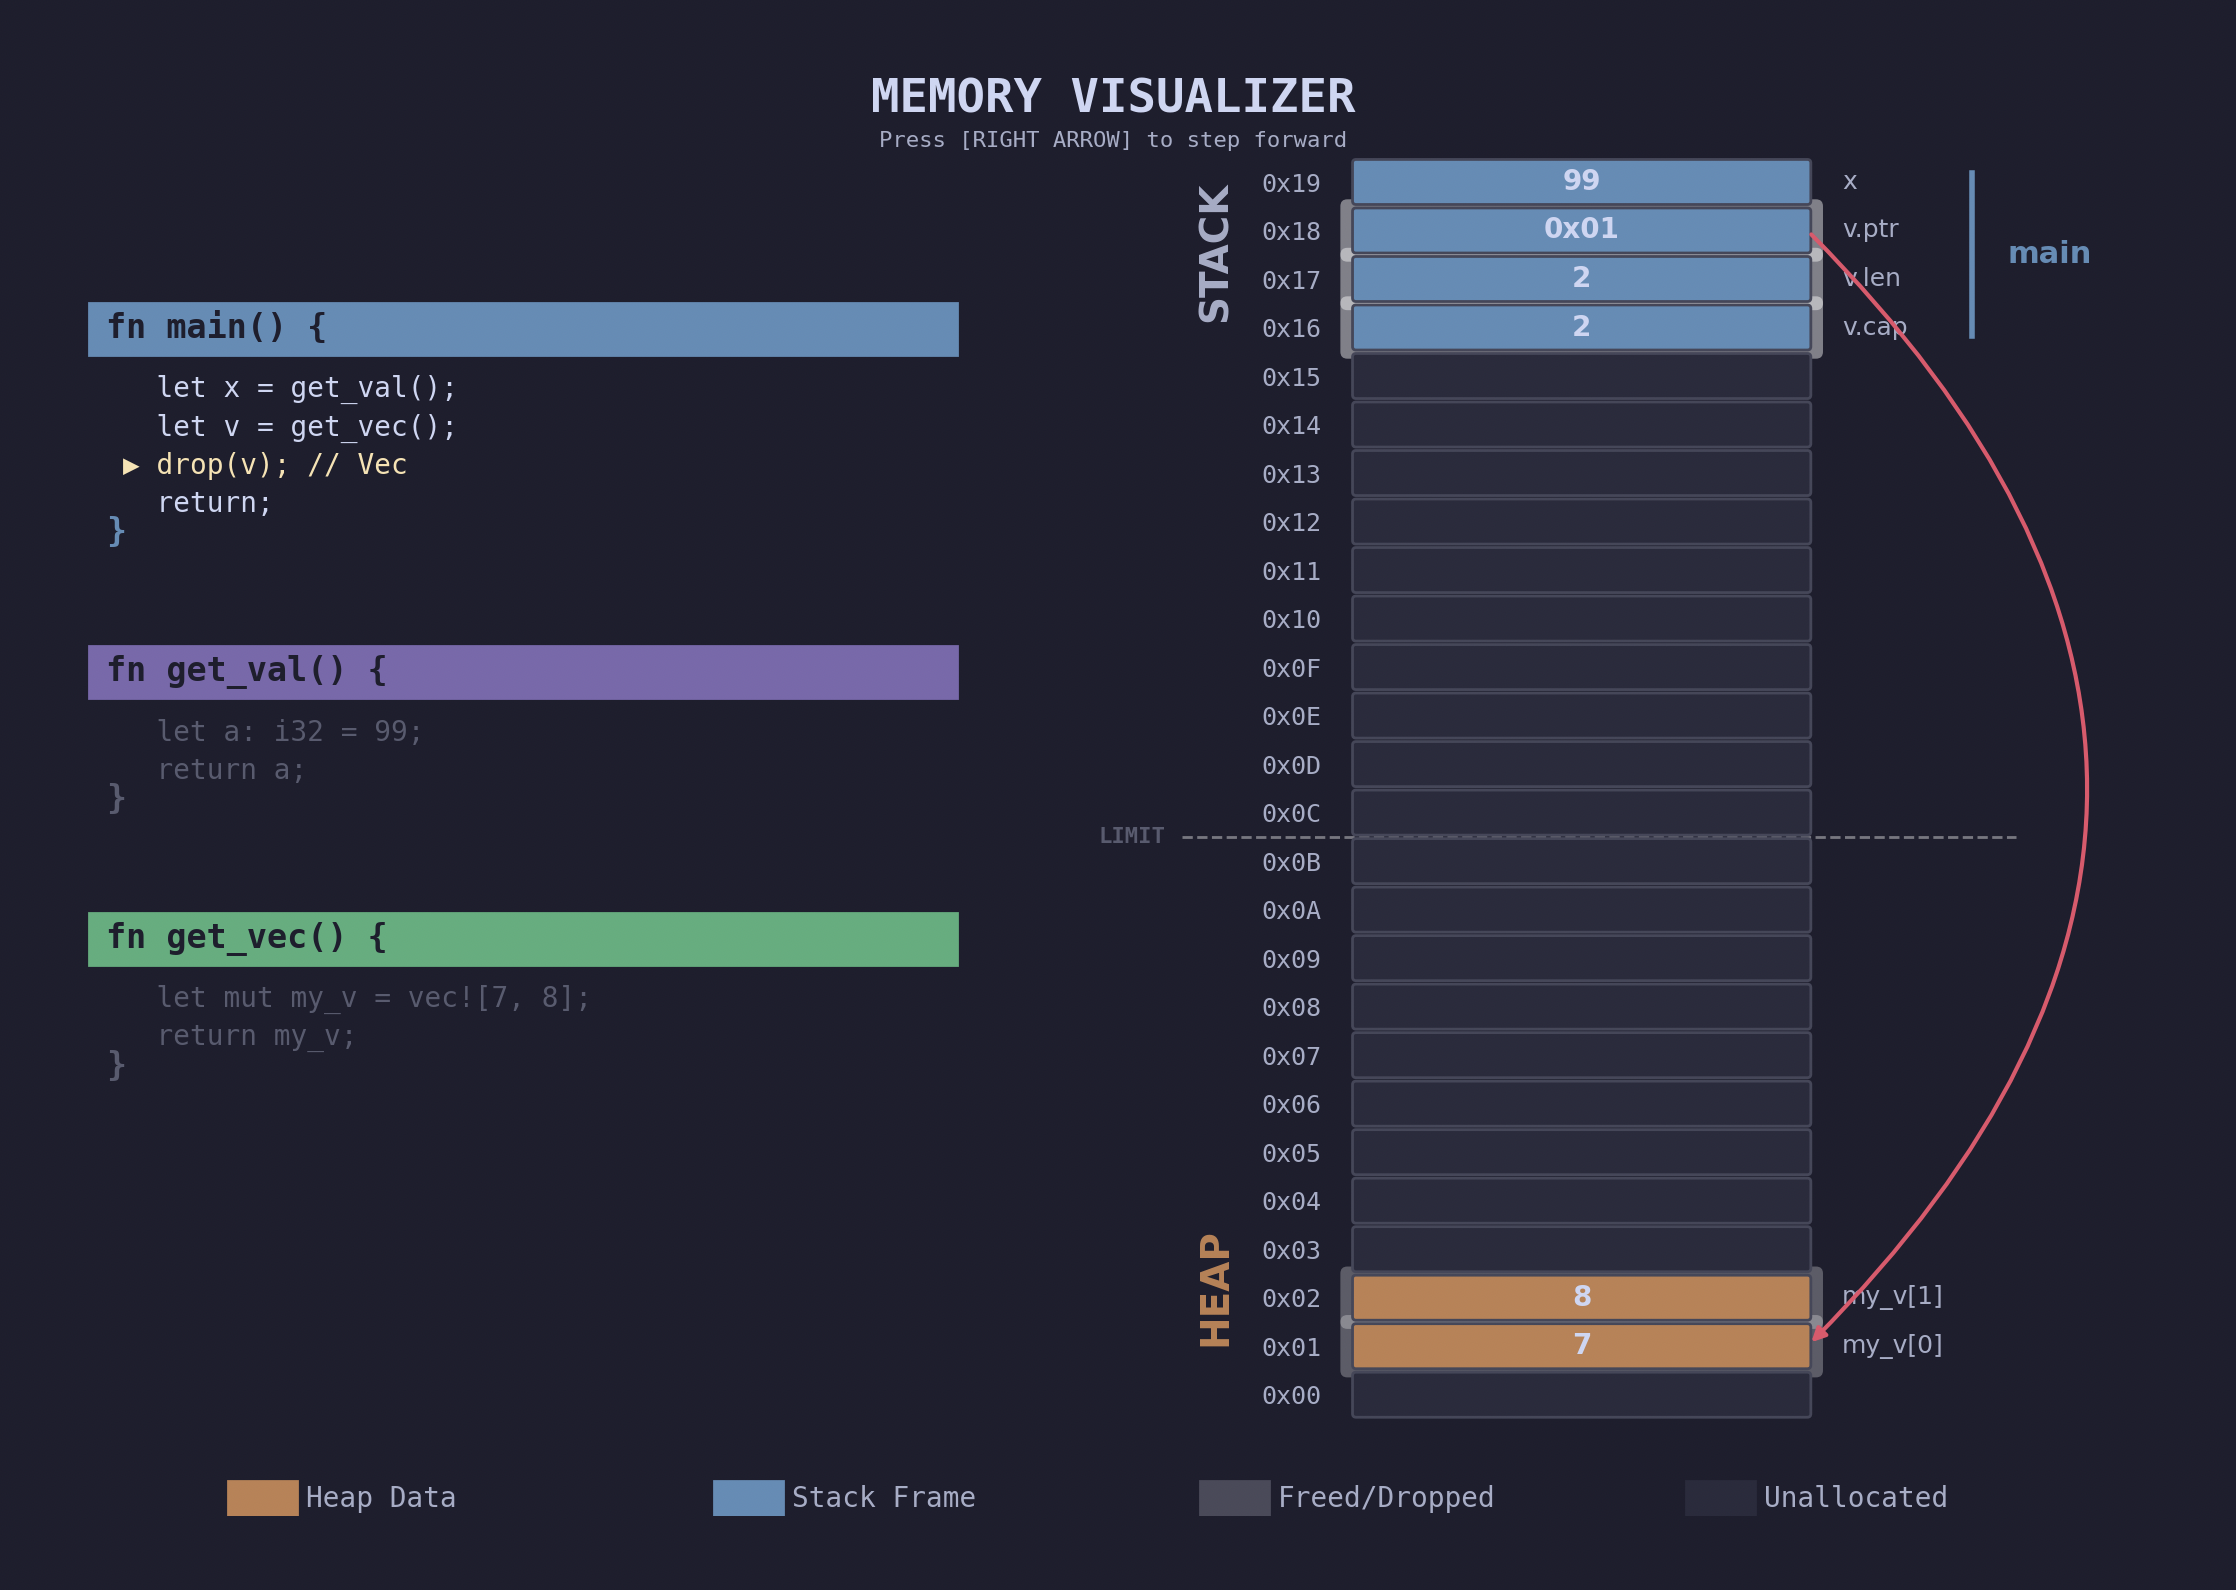
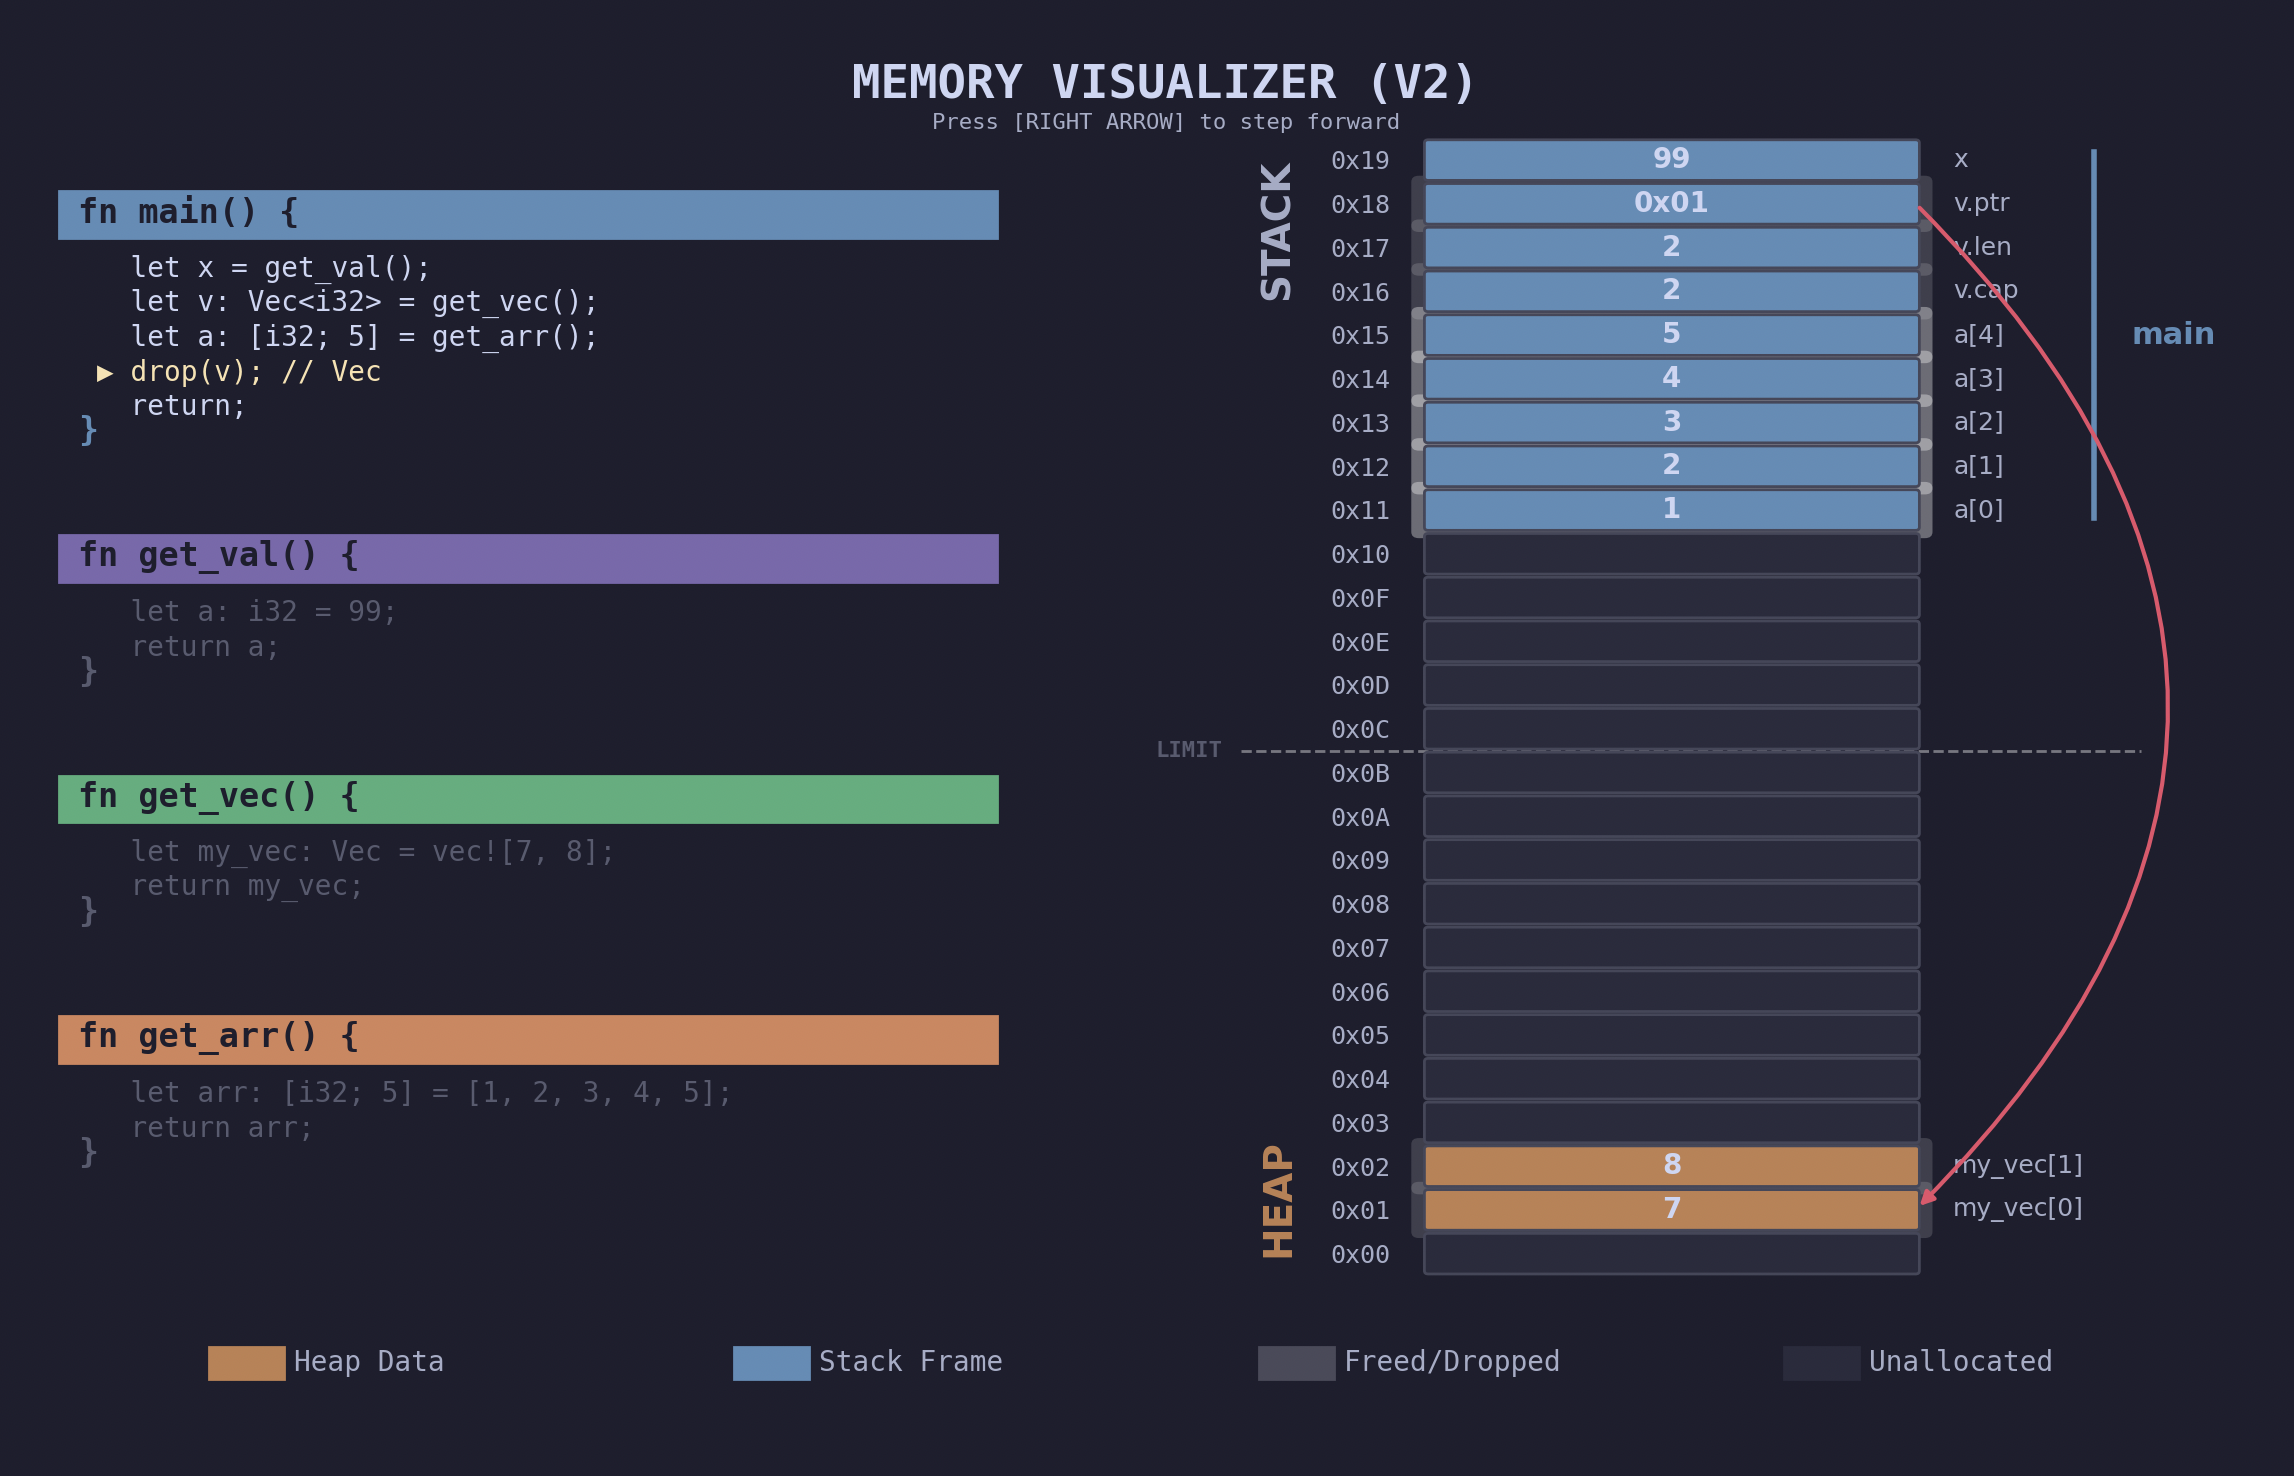
README

diff --git a/README.md b/README.md
@@ -7,20 +7,10 @@ A lightweight, interactive Python tool designed to help students visualize **Sta
 ## 🖥 User Interface & Simulation
 
 When you launch the program, you are greeted with a categorized menu of memory illustrations:
-![](figs/menu.png)
-
 
 Once an illustration is selected, the visualizer opens a window showing the live state of the Stack and Heap:
 
-![](figs/simu.png)
-
 *The simulation highlights the current line of code, the active stack frames, and dynamic pointers between memory locations.*
-
-![](figs/mix.png)
-
-![](figs/functions.png)
-
-Here is a draft for your disclaimer. It balances technical honesty with the fact that this is a pedagogical tool.
 
 ---
 
@@ -28,9 +18,10 @@ Here is a draft for your disclaimer. It balances technical honesty with the fact
 
 This project is designed as a **conceptual visualizer** to help learners understand the relationship between source code, the stack, and the heap. To maintain clarity, several low-level architectural complexities have been abstracted away:
 
-* **Stack Contents:** In a real-world environment (like x86-64 or ARM), the stack contains much more than just local variables. It includes **return addresses** (saved Instruction Pointers), **frame pointers** (EBP/RBP), and **padding** for memory alignment.
-* **Register Usage:** Modern compilers make heavy use of **CPU Registers** (e.g., `rax`, `rbx`) to pass arguments and perform arithmetic. In this visualizer, many operations are shown as direct memory manipulations for better visibility, whereas a real CPU would perform these in registers.
-* ...
+* **Stack Contents:** In a real-world environment (like x86-64 or ARM), the stack contains more than just local variables. It includes **return addresses**, **frame pointers**, and **padding** for alignment.
+* **Register Usage:** Modern CPUs use **Registers** for arithmetic. Here, operations are shown as direct memory manipulations for better visibility.
+
+---
 
 ## 🚀 Getting Started
 
@@ -38,152 +29,129 @@ This project uses [uv](https://github.com/astral-sh/uv) for fast, reliable Pytho
 
 ### Prerequisites
 
-* [uv](https://docs.astral.sh/uv/getting-started/installation/) installed on your system.
-* Python 3.12+ (managed automatically by `uv`).
+* [uv](https://docs.astral.sh/uv/getting-started/installation/) installed.
+* Python 3.10+ (managed automatically by `uv`).
 
 ### Installation & Setup
 
 1. **Clone the repository**:
+
 ```bash
 git clone git@github.com:maximiliense/MemoryVisualization.git
 cd MemoryVisualization
 
 ```
 
-
 2. **Sync dependencies**:
-This command creates a virtual environment and installs all necessary dependencies (`matplotlib`) automatically:
+
 ```bash
 uv sync
 
 ```
 
-
-
 ### Running the Visualizer
 
-To launch the interactive menu, use `uv run`. This ensures the script runs within the correct environment with all dependencies available:
+To launch the interactive menu:
 
 ```bash
 uv run python main.py
 
 ```
 
+---
 
+## 📝 Examples & Supported Syntax
 
-## 📝 Writing Your Own Programs
+The visualizer includes a parser that understands a subset of Rust-like syntax (with manual memory management). Below are examples of supported features:
 
-You can define custom scenarios in two ways:
+### 1. Vectors, Boxes, and Dropping
 
-### Option 1: Using Rust-like Syntax (Recommended)
-
-The visualizer includes a compiler that parses Rust-like code into executable instructions. This is the most intuitive way to create memory visualizations.
-
-**Supported Syntax:**
+Manage heap-allocated memory and manual cleanup.
 
 ```rust
 fn main() {
-    // Variable declarations
-    let x: i32 = 5;
-    let y: u32 = 10;
-    let z = 15;  // Type inferred as i32
-    
-    // Mutable vectors (heap-allocated, growable)
-    let mut v = vec![1, 2, 3];
-    v.push(4);  // Triggers reallocation if capacity exceeded
-    
-    // Fixed-size arrays (stack-allocated)
-    let arr: [i32; 5] = [10, 20, 30, 40, 50];
-    
-    // Heap allocation with Box
-    let p = Box::new(100);
-    
-    // References
-    let r = &x;
-    
-    // Dereferencing and assignment
-    *ptr = 42;
-    
-    // Arithmetic operations
-    let sum = x + y;
-    let diff = x - y;
-    let prod = x * y;
-    let quot = x / y;
-    
-    // Compound assignment
-    x += 1;
-    x -= 1;
-    
-    // Cloning
-    let p2 = p.clone();
-    
-    // Memory cleanup
-    drop(p);
-    
-    // Function calls
-    helper(x, y);
-    let result = compute(5);
-    
-    // Control flow
-    if x == 5 {
-        // then branch
-    } else {
-        // else branch
-    }
-    
-    // Return values
-    return x;
-}
-
-fn helper(a: i32, b: i32) {
-    // Function with parameters
-    let local = a + b;
+    let mut v = vec![10];
+    v.push(20);          // Triggers heap reallocation
+    let b = Box::new(100);
+    *b = 1000;           // Dereference assignment
+    drop(v);             // Explicitly free heap memory
+    drop(b);
     return;
 }
 
-fn compute(n: i32) -> i32 {
-    let result = n * 2;
-    return result;
-}
 ```
 
-**Using the Compiler:**
+### 2. Loops and Arrays
 
-```python
-from visualizer.compiler import compile_rust
+Visualize stack-allocated fixed-size arrays and iterative state changes.
 
-rust_code = """
+```rust
 fn main() {
-    let x: i32 = 10;
-    let mut v = vec![1, 2];
-    v.push(3);  // Triggers heap reallocation!
+    let n: i32 = 10;
+    let i: i32 = 3;
+    let fibo: [i32; 2] = [1, 1];
+    let prev: i32;
+    while i < n {
+        prev = fibo[1];
+        fibo[1] = fibo[0] + fibo[1];
+        fibo[0] = prev;
+        i += 1;
+    }
+    println!(fibo[1]);
     return;
 }
-"""
 
-program = compile_rust(rust_code)
-# Now run the program with the visualizer
 ```
 
-### Option 2: Using Python AST Style (Advanced)
+### 3. Pointer Chains (Deep Referencing)
 
-For more control, you can directly construct the Abstract Syntax Tree:
+Multiple levels of indirection look in the stack.
 
-```python
-from visualizer.instructions import StackVar, VecNew, VecPush, ReturnFunction
-from visualizer.runner import Program, FunctionDef
+```rust
+fn main() {
+    let a: i32 = 10;
+    let ra = &a;
+    let rra = &ra;
+    let rrra = &rra;
+    ***rrra = 42; // Deep dereference
+    return;
+}
 
-def my_custom_prog():
-    return Program({
-        "main": FunctionDef(
-            body=[
-                StackVar("x", "i32", 10),
-                VecNew("v", [1, 2], cap=2),
-                VecPush("v", 3), # Triggers a reallocation!
-                ReturnFunction()
-            ]
-        )
-    })
+```
+
+### 4. Function Calls and Stack Frames
+
+Parameters are passed by value or. by reference across frames.
+
+```rust
+fn main() {
+    let y: i32 = 20;
+    let y_ref = &y;
+    process(y, y_ref);
+    return;
+}
+
+fn process(y, y_ref) {
+    *y_ref = 999; // Modifies main's 'y'
+    y = 0;        // Modifies local copy
+    return;
+}
+
+```
+
+### 5. Memory Safety & Buffer Overflows
+
+Simulate "tampering" to show how out-of-bounds access can affect neighboring stack variables.
+
+```rust
+fn tampering() {
+    let x: i32 = 42;
+    let arr: [i32; 4] = [1, 2, 3, 4];
+    let idx: i32 = 5; 
+    arr[idx] = -99; // Illustrates writing past array bounds into 'x'
+    return;
+}
+
 ```
 
 ---
@@ -191,3 +159,50 @@ def my_custom_prog():
 ## ⌨ Controls
 
 * **[RIGHT ARROW]**: Step forward to the next instruction.
+
+---
+
+## 🛠 Command Line Interface (CLI)
+
+The project includes a standalone script, `srs_interpreter.py`, which serves as the entry point for executing custom source files. 
+
+### Usage
+
+To run a specific `.srs` (`simple rust`) file and view its memory layout, use the following command:
+
+```bash
+./srs_interpreter.py path/to/your_code.srs
+
+```
+
+*(Note: Ensure the script is executable with `chmod +x srs_interpreter.py`)*
+
+### How it Works
+
+The interpreter follows a three-stage pipeline to transform your source code into a live visualization:
+
+1. **Parsing**: The `compile_srs` function performs a recursive descent pass over your text file, generating a structured **Program** object.
+2. **Initialization**: The `InteractiveRunner` takes this program and prepares the `MemoryModel` and `ProgramCounter`, setting the execution to the first line of `main`.
+3. **Visualization Loop**: An interactive `matplotlib` window is launched. The runner listens for keyboard events (like the arrow keys) to drive the `ProgramRunner` through the code, updating the memory layout in real-time.
+
+### Workflow Example
+
+If you create a file named `test.srs` with the following content:
+
+```rust
+fn main() {
+    let mut data = vec![1, 2];
+    data.push(3);
+    return;
+}
+
+```
+
+Running `./srs_interpreter.py test.srs` will immediately open the GUI, allowing you to watch the stack frame for `main` grow and the heap reallocate as the vector expands.
+
+---
+
+### Tips for custom scripts:
+
+* **Entry Point**: Every script must contain a `fn main() { ... }` as the visualizer starts execution there.
+* **Imports**: You do not need to import anything within your Rust-like scripts; the built-ins (like `vec!`, `Box`, and `println!`) are globally available to the parser.
